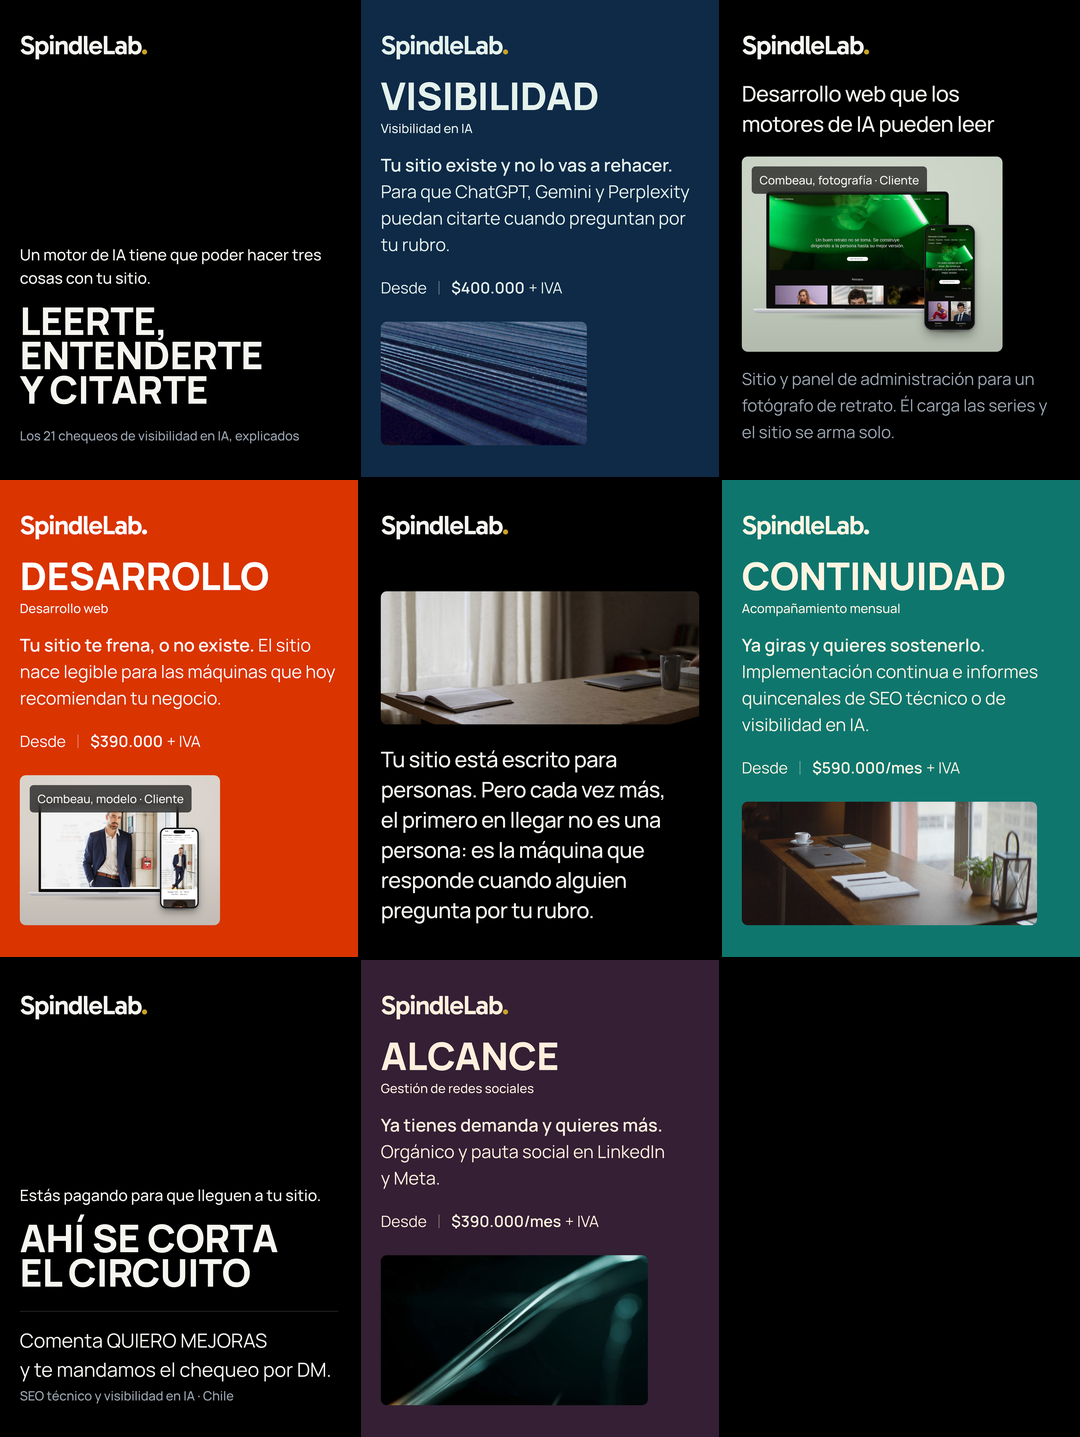
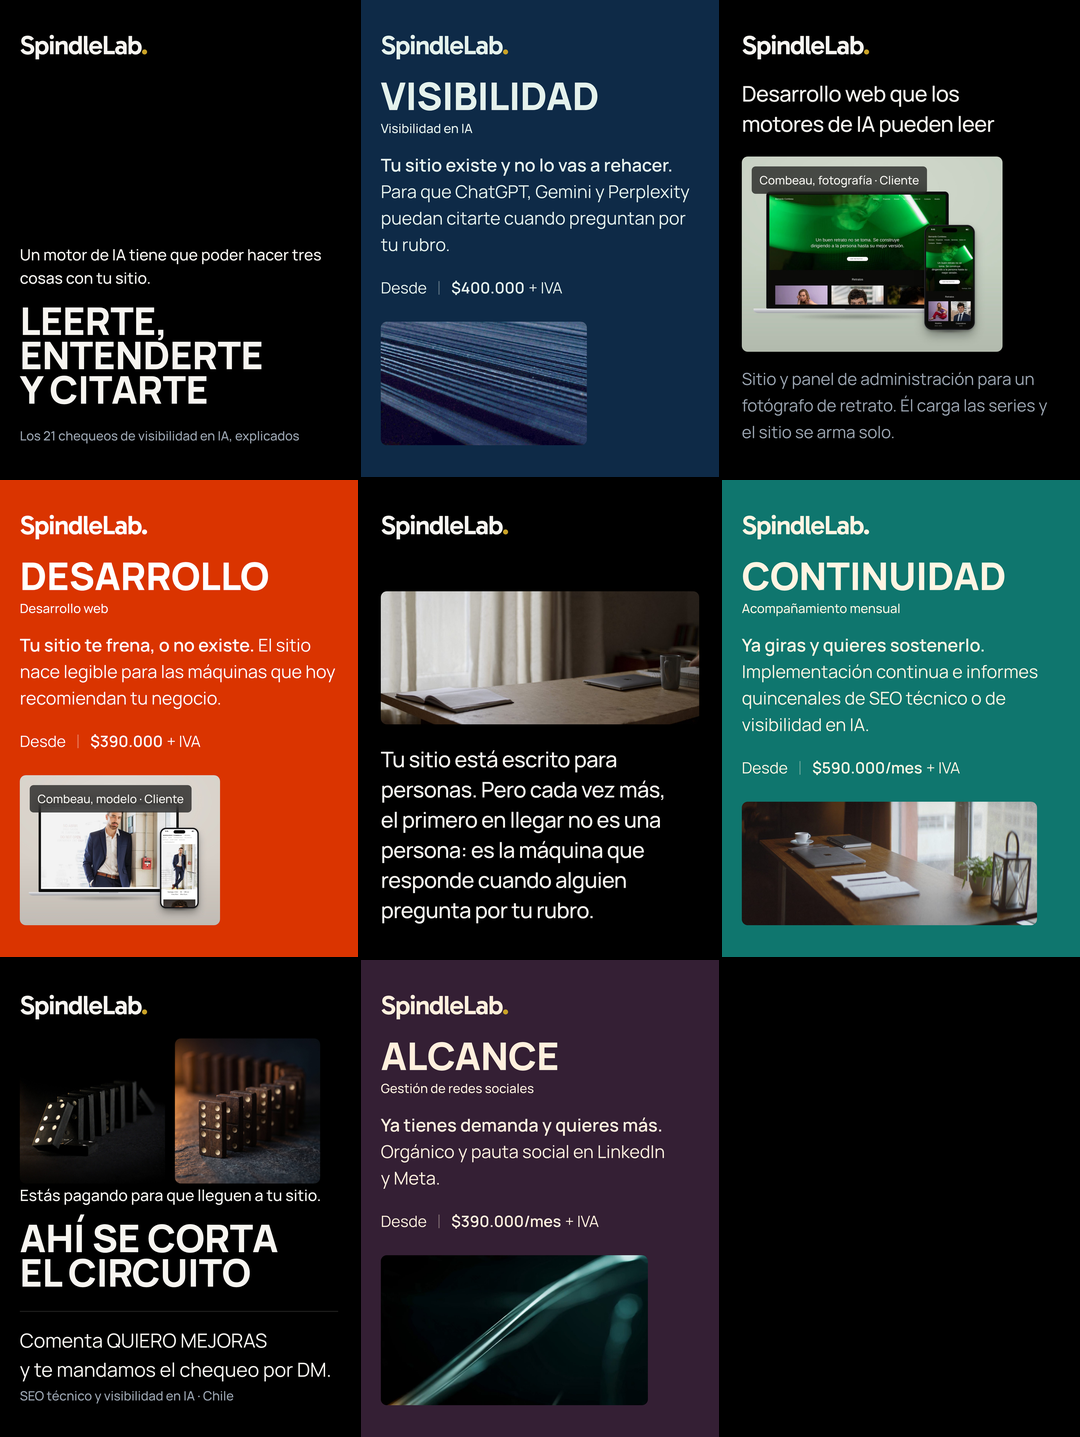
post-titular cumple 10.6c con el domino, y el criterio de oro del manual tenia un umbral roto
Bruno. El titular de post-titular es Ahi se corta el circuito, que es literalmente el territorio
de 06b, y el domino es el molde declarado de ese territorio. Asi que la imagen no es decoracion:
son las unicas fotos del pool que dicen lo que dice el titular.

Van DOS y no una. Con una sola, la pieza cuadrada se encoge al alto disponible y queda a media
caja, como una estampilla suelta; se rendio, se miro y no se entrega. Dos piezas de 1:1 llenan
el ancho util a 436 cada una, que es la fila de piezas del sitio. Se copio domino-curva.jpg
desde el pool del sitio.

Al revisar que la luz calida de la foto curva no compitiera con el oro del wordmark aparecio un
defecto del manual: el criterio de oro de 07b pide brillo mayor o igual a 0,5 y el propio
#C9A227 tiene brillo 0,47, asi que NO pasa su propio filtro. Un detector de oro que no detecta
el oro de la marca da 0 por ciento en todo y parece que nada falla. El umbral correcto es 0,35.
Las conclusiones del relevamiento siguen en pie porque se separaron por tono; lo que hay que
corregir es medir.py.

Y mi alarma sobre la foto curva era falsa: su luz esta en tono 12-20 grados, naranja y no oro.
El manual la habia medido bien.

Claude-Session: https://claude.ai/code/session_01CR5SfVdVRLCtMzHMRctqPx

Changed region(s): [[0.0, 0.7042, 0.3056, 0.8267]]

diff --git a/marketing/brand/instagram-v3/post-titular.html b/marketing/brand/instagram-v3/post-titular.html
@@ -1,15 +1,25 @@
 <!doctype html><html lang="es"><head><meta charset="utf-8"><link rel="stylesheet" href="base.css">
-<meta name="alt-instagram" content="Lámina negra con el wordmark SpindleLab. Estás pagando para que lleguen a tu sitio. AHÍ SE CORTA EL CIRCUITO. Comenta QUIERO MEJORAS y te mandamos el chequeo por DM.">
+<meta name="alt-instagram" content="Lámina negra con dos fotos de fichas de dominó cayendo, una en fila recta y otra en fila curva. Estás pagando para que lleguen a tu sitio. AHÍ SE CORTA EL CIRCUITO. Comenta QUIERO MEJORAS y te mandamos el chequeo por DM.">
 <!-- POST-TITULAR · 1080×1350 · lienzo negro, wordmark arriba, ojillo + display apoyados abajo, como el
      hero del sitio. Textos: ojillo y h1 del hero de la home v3, tal cual. Editar solo lo marcado.
-     OJO (manual §10.11): una pieza solo tipográfica choca con la regla del 1-sep de Ramón
-     («las fichas tipográficas planas solas ya no pasan»). No sale sola mientras él no la retire. -->
+     LA IMAGEN NO ES DECORACIÓN (manual §10.6c): el titular es «Ahí se corta el circuito», que es
+     literalmente el territorio de §06b, y el dominó es el molde declarado de ese territorio
+     («consecuencias físicas, no diagramas»). Por eso van las dos fotos del dominó y
+     no otra cosa: son las únicas del pool que dicen lo que dice el titular.
+     VAN DOS, no una: con una sola, la pieza cuadrada se encoge al alto disponible y queda a media
+     caja, como una estampilla suelta (probado y mirado: no se entrega). Dos piezas de 1:1 llenan
+     el ancho útil a 436 cada una, que es la fila de piezas del sitio (§10.3). -->
 <style>
+.fila-piezas { margin-top: 56px; }
 .titular { margin-top: auto; }
 .llamado { margin-top: 61px; }
 .rot { margin-top: 6px; }
 </style></head><body class="f45">
 <div><span class="wm wm--76">SpindleLab<i>.</i></span></div>
+<div class="fila-piezas" style="--n:2;--suma:2">
+  <figure class="pieza" style="--r:1"><img src="img/domino.jpg" alt="Fichas de dominó cayendo en fila sobre fondo negro"></figure>
+  <figure class="pieza" style="--r:1"><img src="img/domino-curva.jpg" alt="Fichas de dominó cayendo en fila curva sobre piedra oscura, con luz cálida"></figure>
+</div>
 <div class="titular">
   <p class="ojillo">Estás pagando para que lleguen a tu sitio.</p>          <!-- EDITAR -->
   <h1 class="display">Ahí se corta<br>el circuito</h1>                    <!-- EDITAR: ≤ 6 palabras, ≤ 34 caracteres; el renglón más largo ≤ 900 px -->

diff --git a/marketing/brand/manual-de-marca.md b/marketing/brand/manual-de-marca.md
@@ -379,6 +379,17 @@ procedimiento de `marketing/oficina/obras-web/spindlelab-v3/mockups/README.md`.
 ### Oro dentro de una foto
 
 Criterio del relevamiento del 7-oct: tono 38–54°, saturación ≥ 0,5 y brillo ≥ 0,5.
+
+> ⚠ **El umbral de brillo está mal y hay que corregirlo (hallazgo del 7-oct, sesión de redes).**
+> **El propio oro de la marca no pasa ese filtro:** `#C9A227` es tono 46°, saturación 0,67 y
+> **brillo 0,47**, bajo el 0,5 que pide la regla. Un detector de oro que no detecta el oro de la
+> marca da 0 % en todo y parece que nada falla.
+> **El umbral correcto es brillo ≥ 0,35**, que captura el oro de marca con margen y sigue dejando
+> fuera los marrones oscuros de las fotos. Verificado el mismo día: la luz cálida de
+> `domino-curva.jpg` está en **tono 12–20°**, o sea naranja, y queda fuera por tono, no por brillo.
+> **Lo que el criterio corregido NO cambia:** las conclusiones del relevamiento siguen en pie,
+> porque se separaron por tono. Lo que cambia es que `medir.py` tiene que usar este umbral, o
+> seguirá informando 0 % sin mirar nada.
 Resultado sobre el pool:
 
 - **0 %** en todas las fotos `d/*`, en el retrato y en los mockups (máximo 0,05 %).
